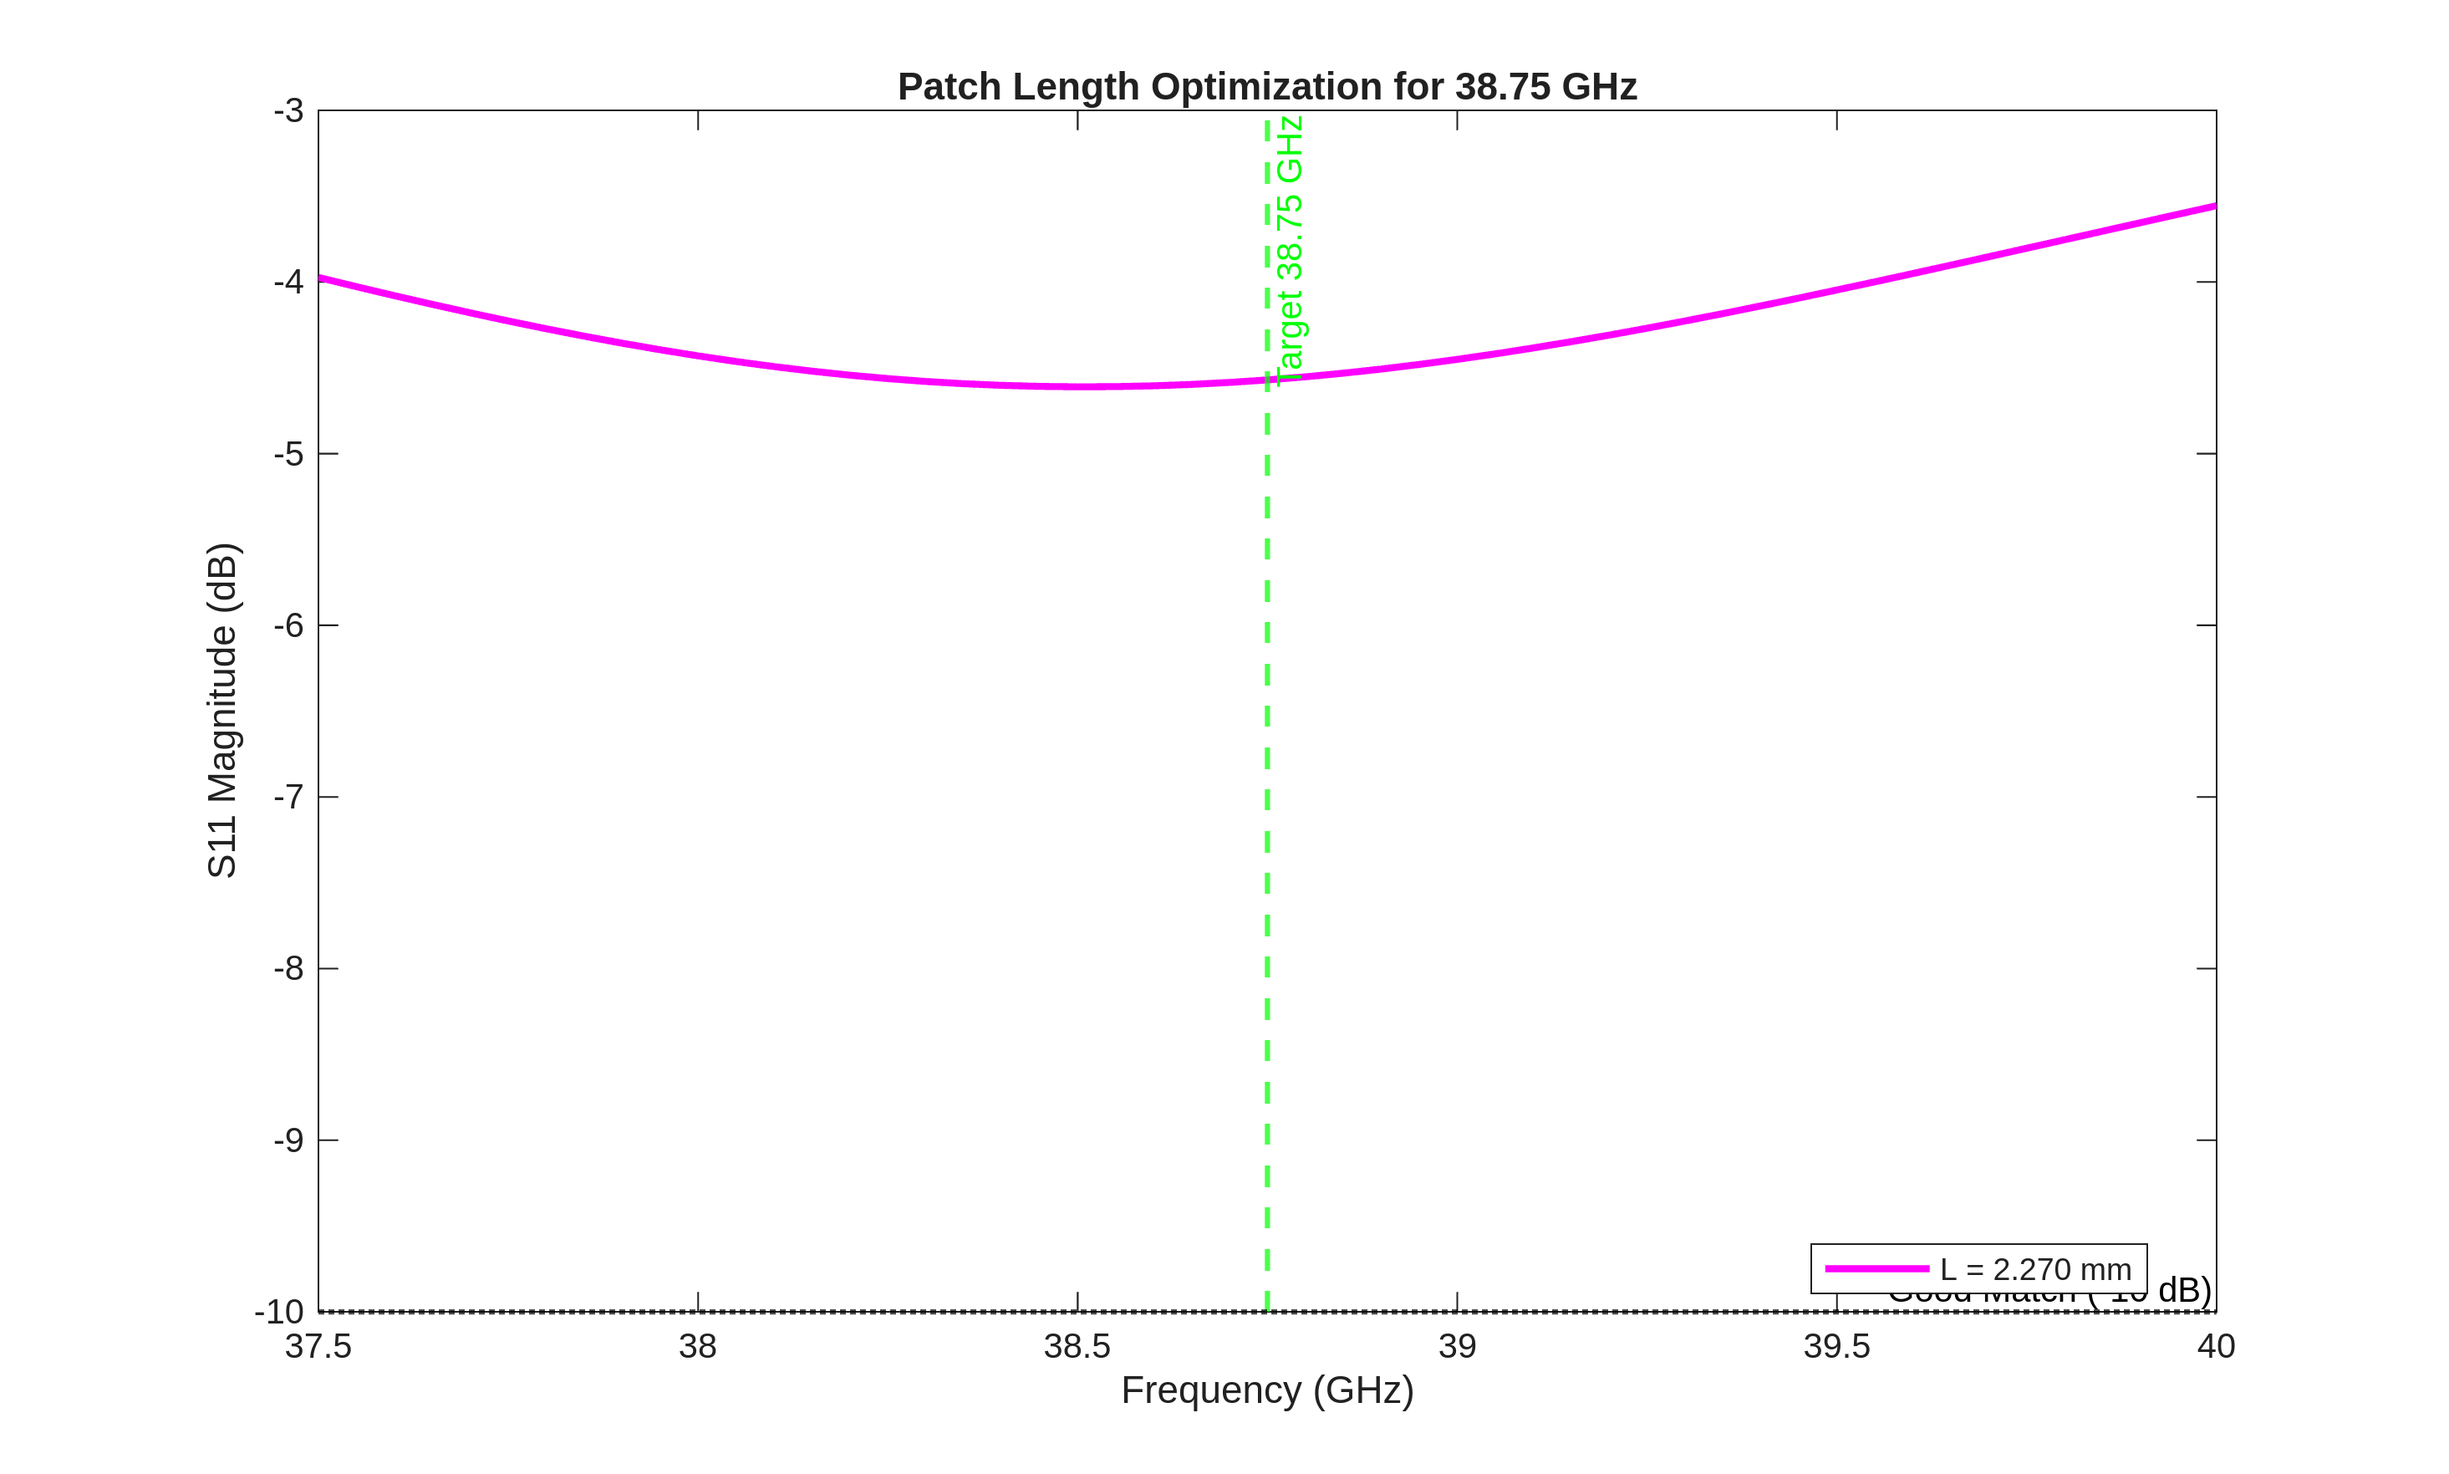
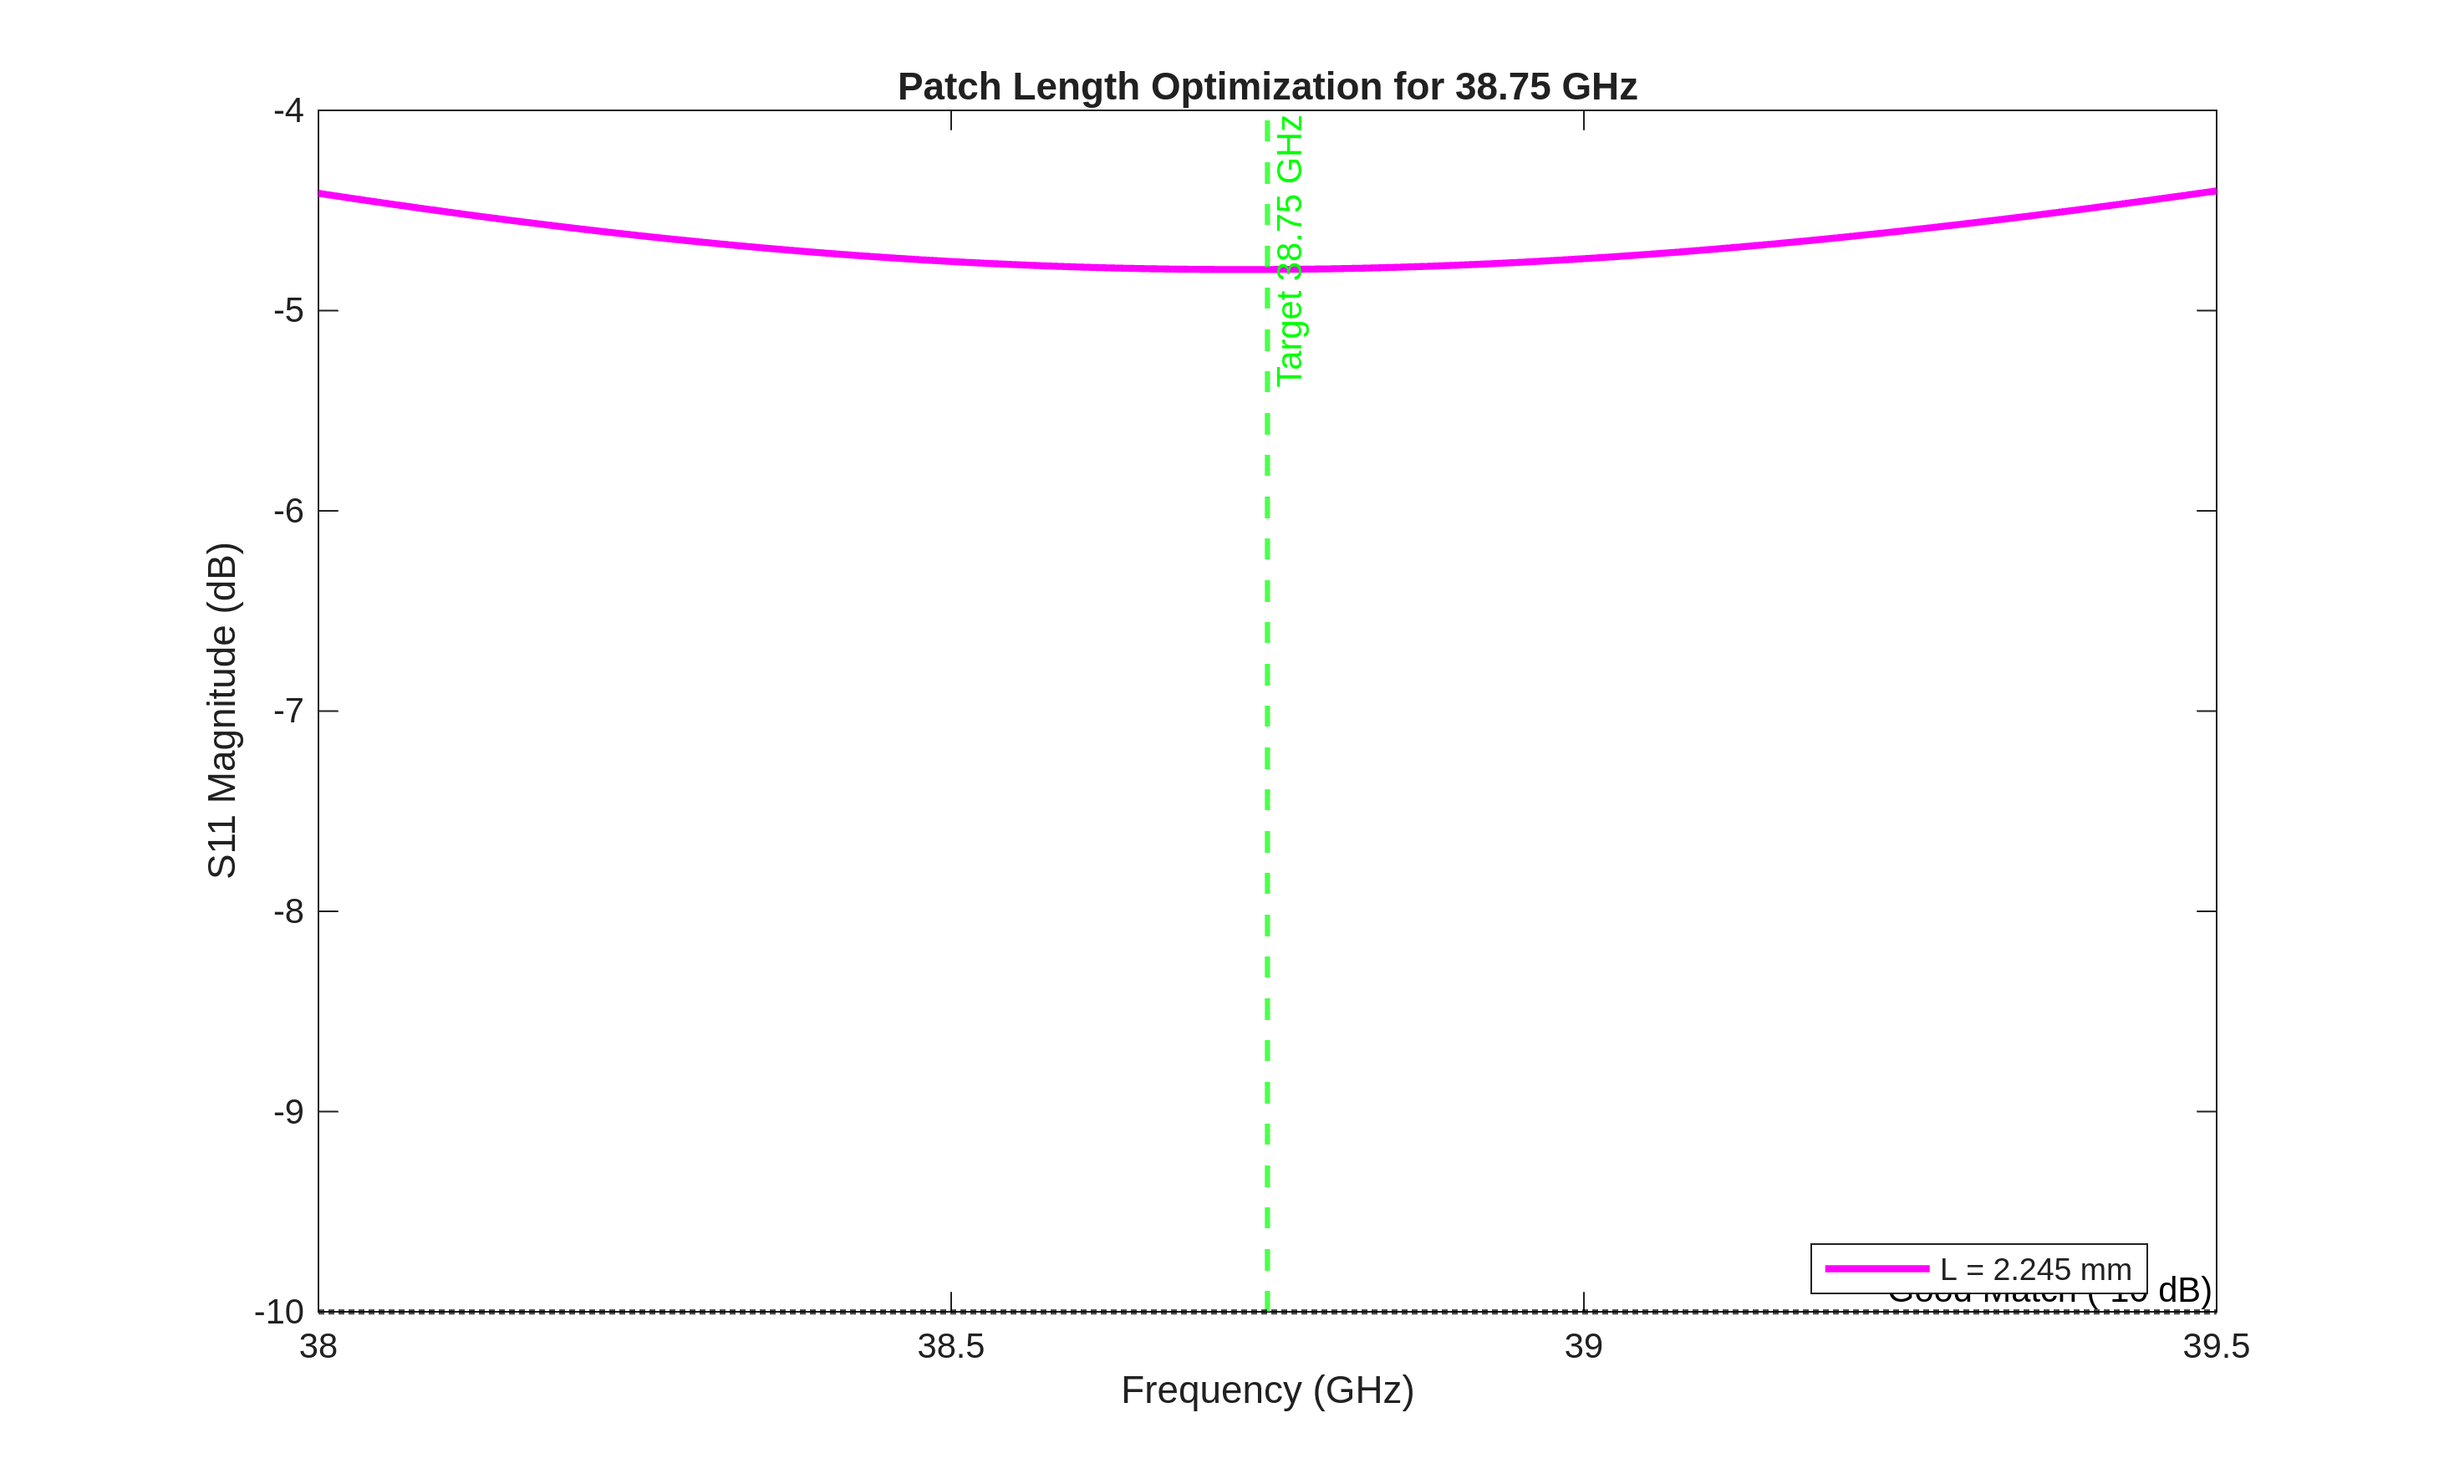
feat(length): sweep the freq then found the best length 0.002243 to align 38.75GHz, but the Z is still not perfect

diff --git a/small_scale_channel_tracking/data/ant_config_finetuning/tune_length_39GHz.m b/small_scale_channel_tracking/data/ant_config_finetuning/tune_length_39GHz.m
@@ -3,11 +3,11 @@ clear;
 
 % 1. Define Target and Sweep Range
 targetFreq = 38.75e9;
-f_sweep = linspace(37.5e9, 40e9, 51);
+f_sweep = linspace(38.0e9, 39.5e9, 61);
 
 % 2. Define Lengths to Test 
 % Testing 2.23 mm, 2.25 mm, and 2.27 mm
-lengths_to_test = [0.00223, 0.00225, 0.00227]; 
+lengths_to_test = [0.002235, 0.002240, 0.002245];
 
 % Prepare the plot (invisible figure)
 fig = figure('Visible', 'off');
@@ -36,7 +36,7 @@ for i = 1:length(lengths_to_test)
 
     % Mesh and calculate
     c = 299792458;
-    mesh(p, 'MaxEdgeLength', (c/targetFreq) / 10);
+    mesh(p, 'MaxEdgeLength', (c/targetFreq) / 6);
     
     S_obj = sparameters(p, f_sweep);
     S11_dB = squeeze(20*log10(abs(S_obj.Parameters(1,1,:))));

diff --git a/small_scale_channel_tracking/data/ant_config_finetuning/verify_39GHz_single.m b/small_scale_channel_tracking/data/ant_config_finetuning/verify_39GHz_single.m
@@ -6,9 +6,9 @@ addpath('single_antenna');
 
 % 1. Define target frequency and sweep range
 targetFreq = 38.75e9; % 38.75 GHz
-f_start = 35.5e9;
-f_end = 42.0e9;
-f_sweep = linspace(f_start, f_end, 41); 
+f_start = 38.0e9;
+f_end = 39.5e9;
+f_sweep = linspace(f_start, f_end, 61); 
 
 % 2. Create the antenna object
 p = createPatchAntenna_39GHz();
@@ -16,7 +16,7 @@ p = createPatchAntenna_39GHz();
 % Set mesh manually for consistent calculation
 c = 299792458;
 lambda = c / targetFreq;
-mesh(p, 'MaxEdgeLength', lambda / 8);
+mesh(p, 'MaxEdgeLength', lambda / 6);
 
 % 3. Calculate S-parameters
 fprintf('Calculating S-parameters around %.2f GHz...\n', targetFreq/1e9);

diff --git a/small_scale_channel_tracking/data/ant_config_finetuning/single_antenna/createPatchAntenna_39GHz.m b/small_scale_channel_tracking/data/ant_config_finetuning/single_antenna/createPatchAntenna_39GHz.m
@@ -11,7 +11,7 @@ function p = createPatchAntenna_39GHz()
     % Object Construction
     p = patchMicrostrip;
     % Dimensions from calculation
-    p.Length = 0.0023;     % L = 2.3 mm
+    p.Length = 0.002243;     % L = 2.3 mm
     p.Width = 0.0031;      % W = 3.1 mm
     p.Height = height;     % h = 0.5 mm
     % Substrate Configuration
